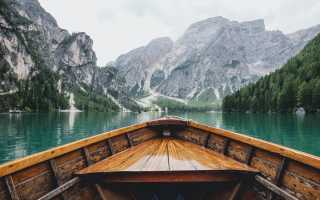
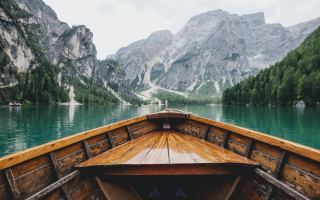
fixed image bugs

diff --git a/routes/article-routes.js b/routes/article-routes.js
@@ -38,15 +38,16 @@ router.post("/createArticle", upload.single("imageFile"), async function (req, r
         fs.renameSync(oldFileName, newFileName);
         const thumbnail = await jimp.read(newFileName);
         thumbnail.resize(320, jimp.AUTO);
-        thumbnail.crop(0, 0, 320, 200);
+        thumbnail.crop(0, (thumbnail.bitmap.height / 2 + 100), 320, 200);
         await thumbnail.write(`./public/images/thumbnails/${fileInfo.originalname}`);
-        
+
         const articleThumb = await jimp.read(newFileName);
         articleThumb.resize(1000, jimp.AUTO);
+        articleThumb.crop(0, ((articleThumb.bitmap.height / 2) - 300), 1000, 600);
         await articleThumb.write(`./public/images/articleThumb/${fileInfo.originalname}`);
 
         imageFile = fileInfo.originalname;
-    } 
+    }
 
     const article = {
         title: req.body.title,
@@ -69,7 +70,7 @@ router.get("/editArticle", verifyAuthenticated, async function (req, res) {
         res.setToastMessage("Article does not exist!");
         return res.redirect("/");
     }
-    if(article.author_id != res.locals.user.id){
+    if (article.author_id != res.locals.user.id) {
         res.setToastMessage("You do not have rights to edit the article");
         return res.redirect("`/article/${articleId}`")
     }
@@ -89,22 +90,23 @@ router.post("/editArticle", upload.single("imageFile"), async function (req, res
         fs.renameSync(oldFileName, newFileName);
         const thumbnail = await jimp.read(newFileName);
         thumbnail.resize(320, jimp.AUTO);
-        thumbnail.crop(0, 0, 320, 200);
+        thumbnail.crop(0, ((thumbnail.bitmap.height / 2) - 100), 320, 200);
         await thumbnail.write(`./public/images/thumbnails/${fileInfo.originalname}`);
-        
+
         const articleThumb = await jimp.read(newFileName);
         articleThumb.resize(1000, jimp.AUTO);
+        articleThumb.crop(0, ((articleThumb.bitmap.height / 2) - 300), 1000, 600);
         await articleThumb.write(`./public/images/articleThumb/${fileInfo.originalname}`);
         imageFile = fileInfo.originalname;
-    } 
+    }
 
     const updatedArticle = {
-        id : oldArticle.id,
-        title : req.body.title,
-        content : req.body.content,
-        image : imageFile,
-        date_published : oldArticle.date_published,
-        date_edited : getCurrentTime(),
+        id: oldArticle.id,
+        title: req.body.title,
+        content: req.body.content,
+        image: imageFile,
+        date_published: oldArticle.date_published,
+        date_edited: getCurrentTime(),
         author_id: res.locals.user.id
     }
 
@@ -113,7 +115,7 @@ router.post("/editArticle", upload.single("imageFile"), async function (req, res
     res.redirect(`/article/${updatedArticle.id}`);
 });
 
-router.post("/deleteArticle", async function(req, res){
+router.post("/deleteArticle", async function (req, res) {
     const articleId = req.body.articleId;
     await articleDao.deleteArticle(articleId);
     res.setToastMessage("Successfully deleted article!");

diff --git a/public/js/home.js b/public/js/home.js
@@ -44,7 +44,7 @@ window.addEventListener("load", function () {
             } else {
                 //set src of conver image to something that is default if author does not submit an image
                 imgDiv.innerHTML = `
-                        <img src="" alt="Article cover image"> 
+                        <img src="../images/thumbnails/general.jpg" alt="Article cover image"> 
                     `;
             }
 

diff --git a/public/js/profile.js b/public/js/profile.js
@@ -41,7 +41,7 @@ window.addEventListener("load", async function () {
             } else {
                 //set src of conver image to something that is default if author does not submit an image
                 imgDiv.innerHTML = `
-                    <img src="" alt="Article cover image"> 
+                    <img src="../images/thumbnails/general.jpg" alt="Article cover image"> 
                 `;
             }
     

diff --git a/routes/api-routes.js b/routes/api-routes.js
@@ -48,4 +48,10 @@ router.get("/api/following", async function(req, res){
     res.json(followingArray);
 });
 
+router.get("/api/followers", async function(req, res){
+    const userId = req.query.userId;
+    const followingArray = await subscriptionDao.retrieveUserFollowerList(userId);
+    res.json(followingArray);
+});
+
 module.exports = router;

diff --git a/modules/subscription-dao.js b/modules/subscription-dao.js
@@ -18,7 +18,6 @@ async function removeSubscription(subscriber_id, author_id){
             AND author_id = ${author_id}`);
 
 }
-////informTIONS 
 
 async function retrieveUserFollowerList(id){
     const db = await dbPromise;

diff --git a/public/js/admin.js b/public/js/admin.js
@@ -1,6 +1,7 @@
 window.addEventListener("load", function(){
 
     const analyticsDiv = document.querySelector(".analytics");
+    
     analyticsDiv.style.display = "initial";
 
 

diff --git a/public/css/general.css b/public/css/general.css
@@ -9,7 +9,7 @@
 
 a {
     text-decoration: none;
-}
+} 
 
 .header, .footer{
     background-color: #f7f2ee;
